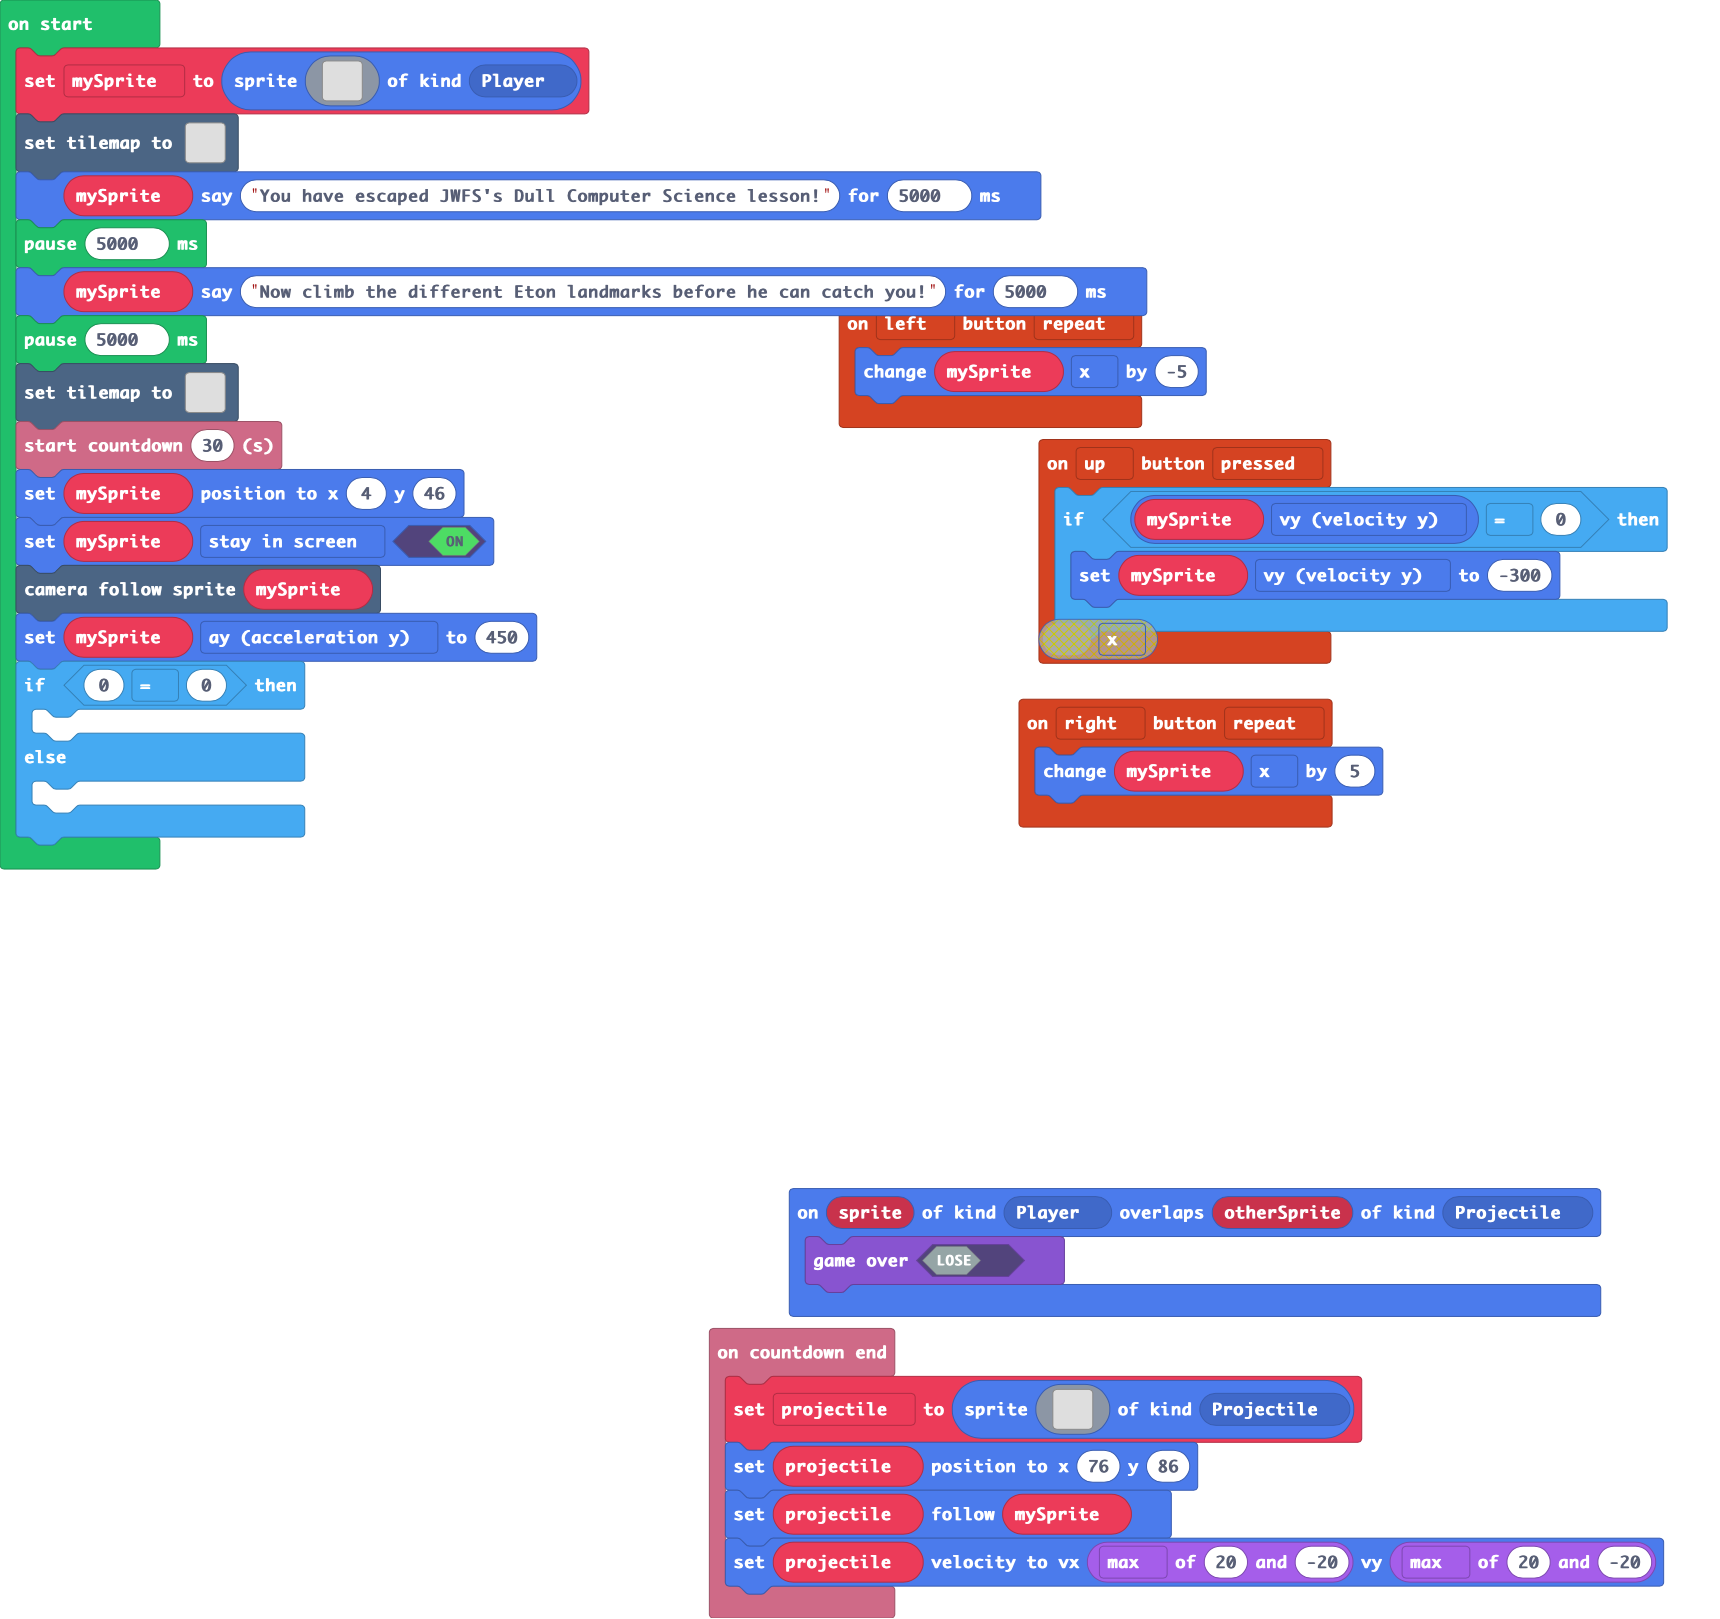
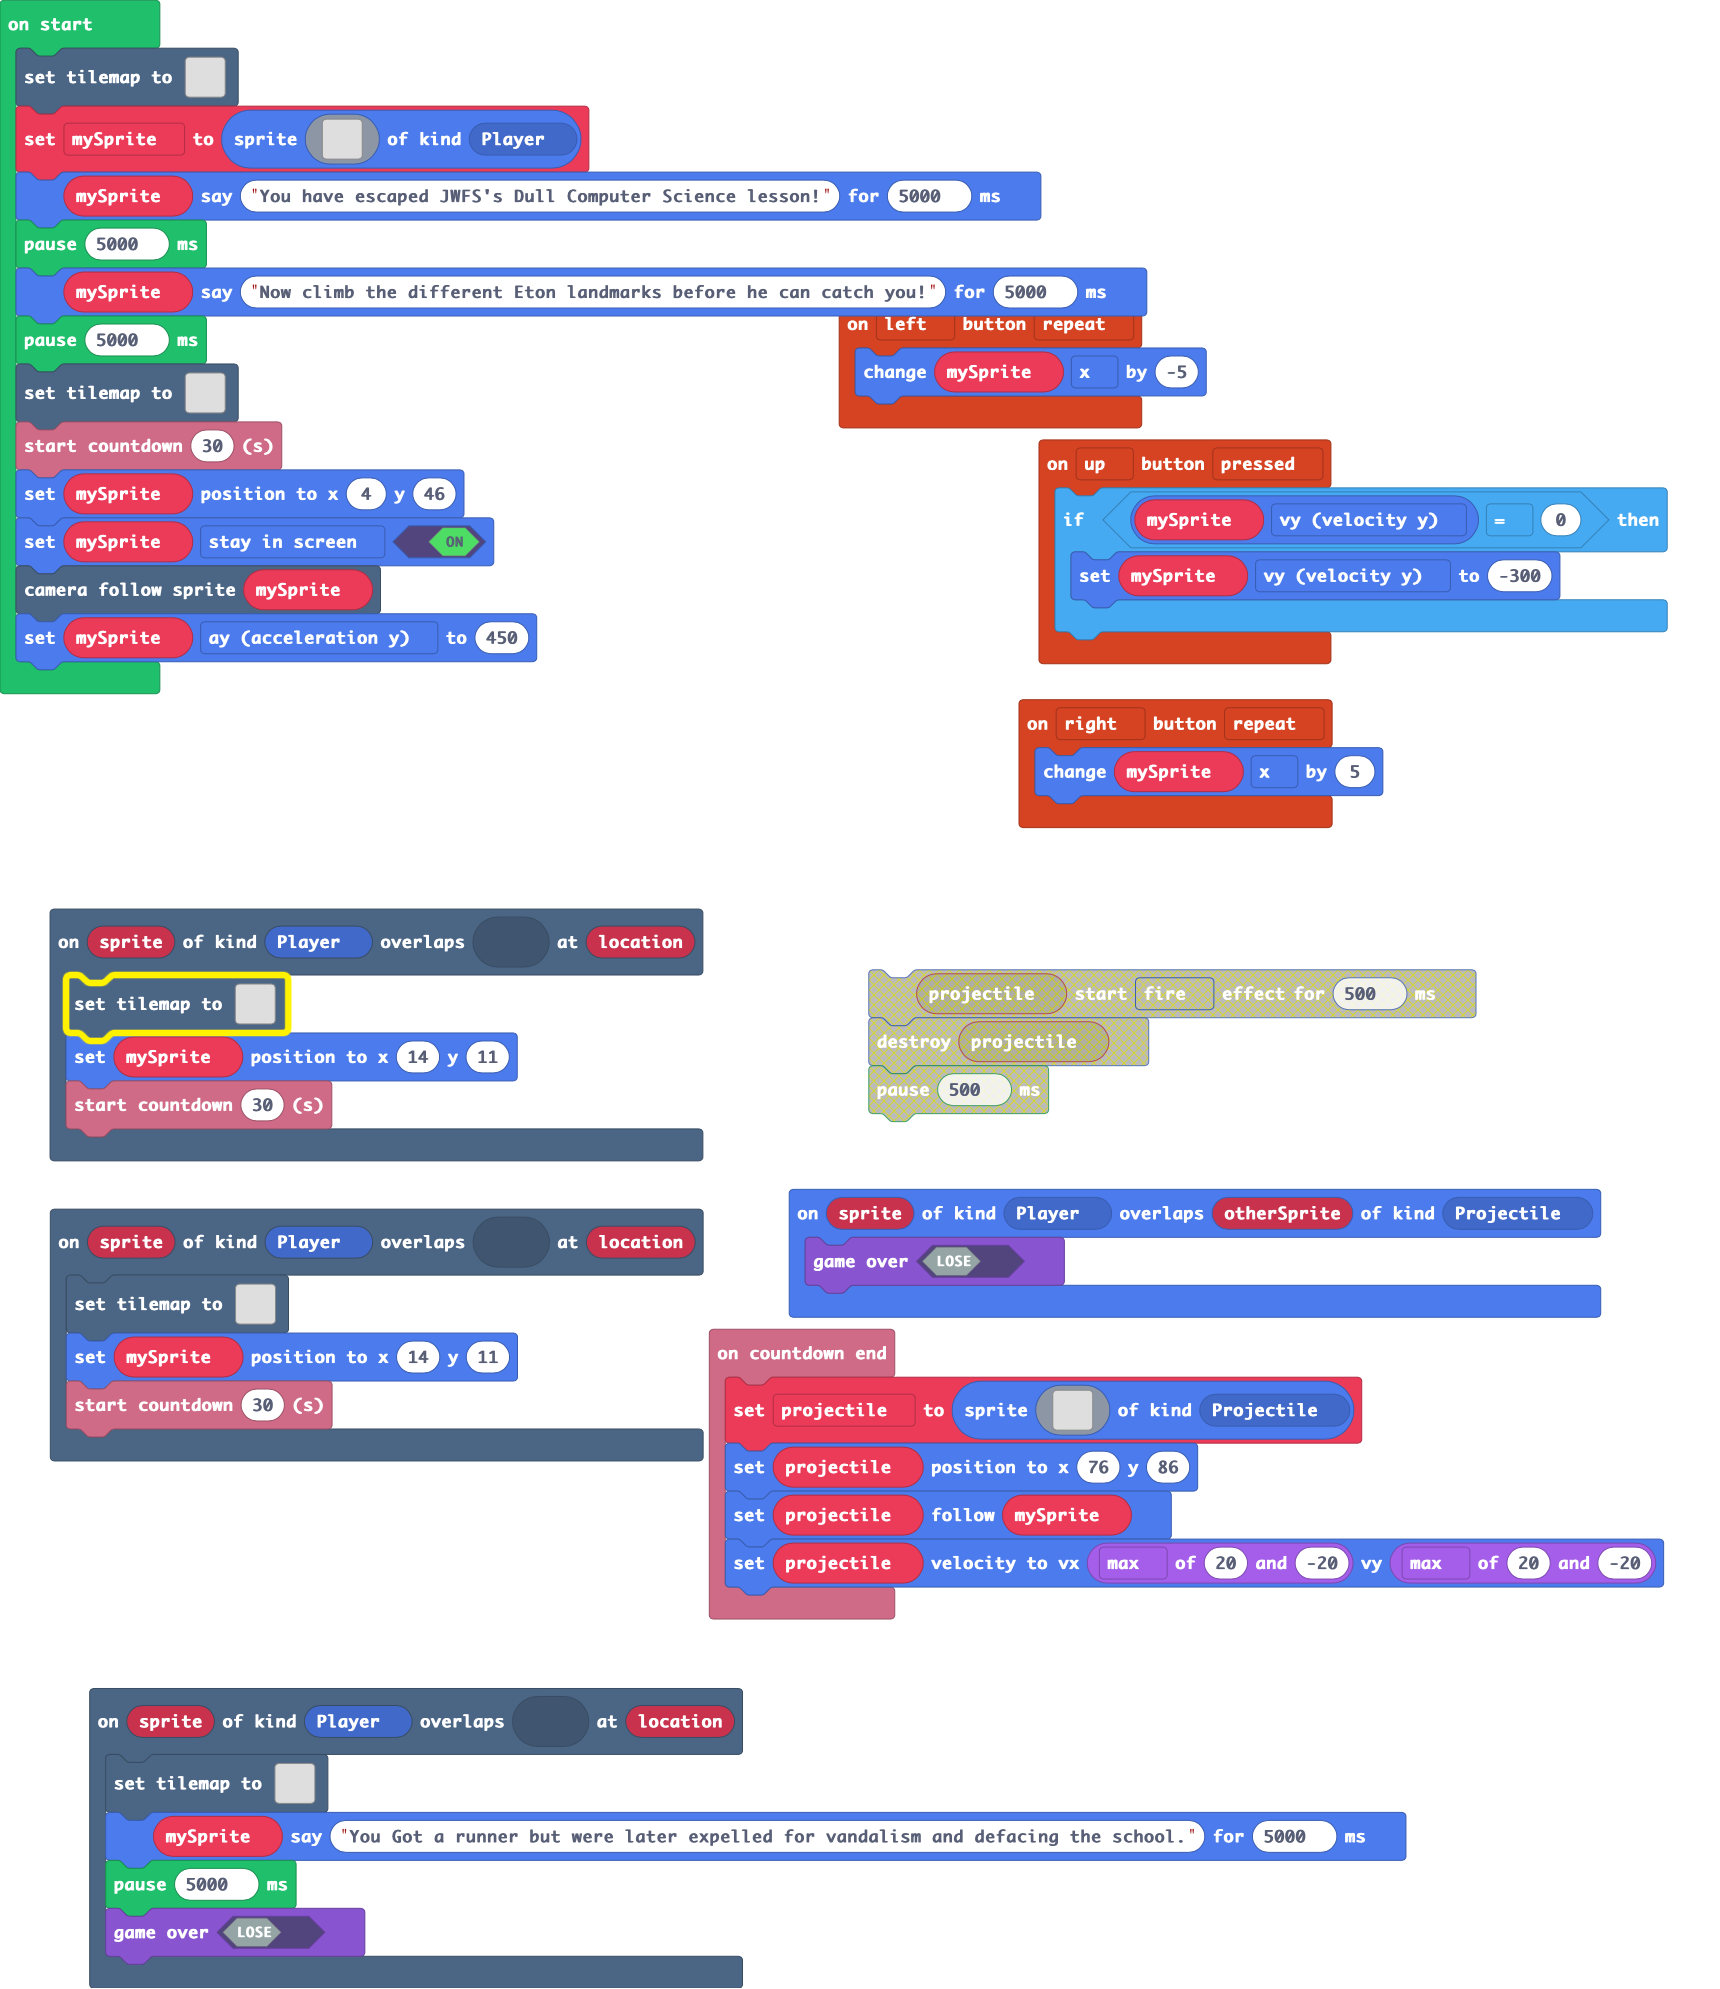
nearly finished

diff --git a/tilemap.g.ts b/tilemap.g.ts
@@ -174,7 +174,7 @@ namespace myTiles {
 ................................
 `, [myTiles.transparency16,myTiles.tile6,myTiles.tile12], TileScale.Sixteen);
             case "level1":
[2 lines of base64/hex data omitted]
 ................................................
 ................................................
 ................................................
@@ -194,10 +194,10 @@ namespace myTiles {
 ......................2.........................
 ......................2.............22..........
 ................................................
-....................2......2....................
-....................2......2.......2222.........
-....................2......2....................
-....................22222222....................
+................................................
+...................................2222.........
+................................................
+.....................222222.....................
 ..................................222222........
 ................................................
 ................................................
@@ -235,7 +235,108 @@ namespace myTiles {
 ................................................
 ................................................
 ................................................
-`, [myTiles.transparency16,myTiles.tile4,myTiles.tile6,myTiles.tile12,myTiles.tile3,myTiles.tile5,myTiles.tile7,myTiles.tile10,tiles.util.arrow0,tiles.util.arrow1,tiles.util.arrow2,tiles.util.arrow9,tiles.util.arrow8,tiles.util.arrow14,myTiles.tile13,tiles.util.arrow15,sprites.builtin.brick], TileScale.Sixteen);
+`, [myTiles.transparency16,myTiles.tile4,myTiles.tile6,myTiles.tile12,myTiles.tile3,myTiles.tile5,myTiles.tile7,myTiles.tile10,tiles.util.arrow0,tiles.util.arrow1,tiles.util.arrow2,tiles.util.arrow9,tiles.util.arrow8,tiles.util.arrow14,myTiles.tile13,tiles.util.arrow15,tiles.util.door5], TileScale.Sixteen);
+            case "level5":
+            case "level5":return tiles.createTilemap(hex`1000100000000000000000000000000000000000000000000000000000000000000000000000000000000000000000000000000000000000000000000000000000000000000000000000000000000000000000000000000000000000000000000000000000000000000000000000000000000000000000000000000000000000000000000000000000000000000000000000000000000000000000000000000000000000000000000000000000000000000000000000000000000000000000000000000000000000000000000000000000000000000000000000000000000000000000000000000000000000000000000000000000000000000000000000000000000000`, img`
+. . . . . . . . . . . . . . . . 
+. . . . . . . . . . . . . . . . 
+. . . . . . . . . . . . . . . . 
+. . . . . . . . . . . . . . . . 
+. . . . . . . . . . . . . . . . 
+. . . . . . . . . . . . . . . . 
+. . . . . . . . . . . . . . . . 
+. . . . . . . . . . . . . . . . 
+. . . . . . . . . . . . . . . . 
+. . . . . . . . . . . . . . . . 
+. . . . . . . . . . . . . . . . 
+. . . . . . . . . . . . . . . . 
+. . . . . . . . . . . . . . . . 
+. . . . . . . . . . . . . . . . 
+. . . . . . . . . . . . . . . . 
+. . . . . . . . . . . . . . . . 
+`, [myTiles.transparency16], TileScale.Sixteen);
+            case "level6":
+            case "level6":return tiles.createTilemap(hex`1000100000000000000000000000000000000000000000000000000000000000000000000000000000000000000000000000000000000000000000000000000000000000000000000000000000000000000000000000000000000000000000000000000000000000000000000000000000000000000000000000000000000000000000000000000000000000000000000000000000000000000000000000000000000000000000000000000000000000000000000000000000000000000000000000000000000000000000000000000000000000000000000000000000000000000000000000000000000000000000000000000000000000000000000000000000000000`, img`
+. . . . . . . . . . . . . . . . 
+. . . . . . . . . . . . . . . . 
+. . . . . . . . . . . . . . . . 
+. . . . . . . . . . . . . . . . 
+. . . . . . . . . . . . . . . . 
+. . . . . . . . . . . . . . . . 
+. . . . . . . . . . . . . . . . 
+. . . . . . . . . . . . . . . . 
+. . . . . . . . . . . . . . . . 
+. . . . . . . . . . . . . . . . 
+. . . . . . . . . . . . . . . . 
+. . . . . . . . . . . . . . . . 
+. . . . . . . . . . . . . . . . 
+. . . . . . . . . . . . . . . . 
+. . . . . . . . . . . . . . . . 
+. . . . . . . . . . . . . . . . 
+`, [myTiles.transparency16], TileScale.Sixteen);
+            case "level4":
[1 lines of base64/hex data omitted]
+................................................
+................................2...............
+...............................222..............
+..............................22222.............
+................................................
+.....................22.........................
+222222................2.........................
+......................2.........................
+....................222.......22222.............
+........222...........2....2222...2222..........
+......................2..22222.......222........
+...................2222.2222...........22.......
+222222................2222..............22......
+.....22222222222222222222..........222...22.....
+.....222222222..............222...........2.....
+............22............................22....
+............22....................22.......2....
+............22...........222...............2....
+............22........................222.......
+............22...............22.................
+............22............................22....
+............22..........22222222222222222.......
+............22......2222222222222222222222222222
+............22......222222.............222222222
+............2222....22...2......................
+............22......22..........................
+............22......22..........................
+............22..22..22..........................
+............22......22..........................
+............22......22..........................
+............22....2222..........................
+............22......22..........................
+............22......22..........................
+............22..22..22..........................
+............22......22..........................
+............22......22..........................
+............2222....22..........................
+22222222222222......2222222222222222222222222...
+....................2.......................2...
+....................2.......................2...
+....................2.......................2...
+....................2.......................2...
+....................2.......................2...
+....................2.......................2...
+....................2.......................2...
+....................2.......................2...
+....................2.......................2...
+....................2.......................2...
+....................2.......................2...
+....................2.......................2...
+....................2.......................2...
+222222222222222222222222222222222222222222222222
+................................................
+................................................
+................................................
+................................................
+................................................
+................................................
+................................................
+................................................
+`, [myTiles.transparency16,myTiles.tile12,myTiles.tile3,myTiles.tile4,myTiles.tile5,myTiles.tile6,myTiles.tile7,tiles.util.arrow1,myTiles.tile10,tiles.util.arrow5,tiles.util.arrow6,tiles.util.arrow10,tiles.util.arrow13,tiles.util.door7,tiles.util.arrow14], TileScale.Sixteen);
         }
         return null;
     })

diff --git a/main.ts b/main.ts
@@ -6,6 +6,11 @@ controller.up.onEvent(ControllerButtonEvent.Pressed, function () {
 controller.right.onEvent(ControllerButtonEvent.Repeated, function () {
     mySprite.x += 5
 })
+scene.onOverlapTile(SpriteKind.Player, tiles.util.door7, function (sprite, location) {
+    tiles.setTilemap(tilemap`level4`)
+    mySprite.setPosition(14, 11)
+    info.startCountdown(30)
+})
 info.onCountdownEnd(function () {
     projectile = sprites.create(img`
         . . . . . . . e e . . . . . . . 
@@ -29,14 +34,26 @@ info.onCountdownEnd(function () {
     projectile.follow(mySprite)
     projectile.setVelocity(Math.max(20, -20), Math.max(20, -20))
 })
+scene.onOverlapTile(SpriteKind.Player, sprites.dungeon.chestClosed, function (sprite, location) {
+    tiles.setTilemap(tilemap`level3`)
+    mySprite.say("You Got a runner but were later expelled for vandalism and defacing the school.", 5000)
+    pause(5000)
+    game.over(false)
+})
 sprites.onOverlap(SpriteKind.Player, SpriteKind.Projectile, function (sprite, otherSprite) {
     game.over(false)
+})
+scene.onOverlapTile(SpriteKind.Player, tiles.util.door5, function (sprite, location) {
+    tiles.setTilemap(tilemap`level4`)
+    mySprite.setPosition(14, 11)
+    info.startCountdown(30)
 })
 controller.left.onEvent(ControllerButtonEvent.Repeated, function () {
     mySprite.x += -5
 })
 let projectile: Sprite = null
 let mySprite: Sprite = null
+tiles.setTilemap(tilemap`level3`)
 mySprite = sprites.create(img`
     . d . . . . . . . . . . . . d . 
     d d d . . . e e e e . . . d d d 
@@ -55,7 +72,6 @@ mySprite = sprites.create(img`
     . . . f f f f . . f f f f . . . 
     . . f f f f f . . f f f f f . . 
     `, SpriteKind.Player)
-tiles.setTilemap(tilemap`level3`)
 mySprite.say("You have escaped JWFS's Dull Computer Science lesson!", 5000)
 pause(5000)
 mySprite.say("Now climb the different Eton landmarks before he can catch you!", 5000)
@@ -66,8 +82,3 @@ mySprite.setPosition(4, 46)
 mySprite.setFlag(SpriteFlag.StayInScreen, true)
 scene.cameraFollowSprite(mySprite)
 mySprite.ay = 450
-if (0 == 0) {
-	
-} else {
-	
-}
